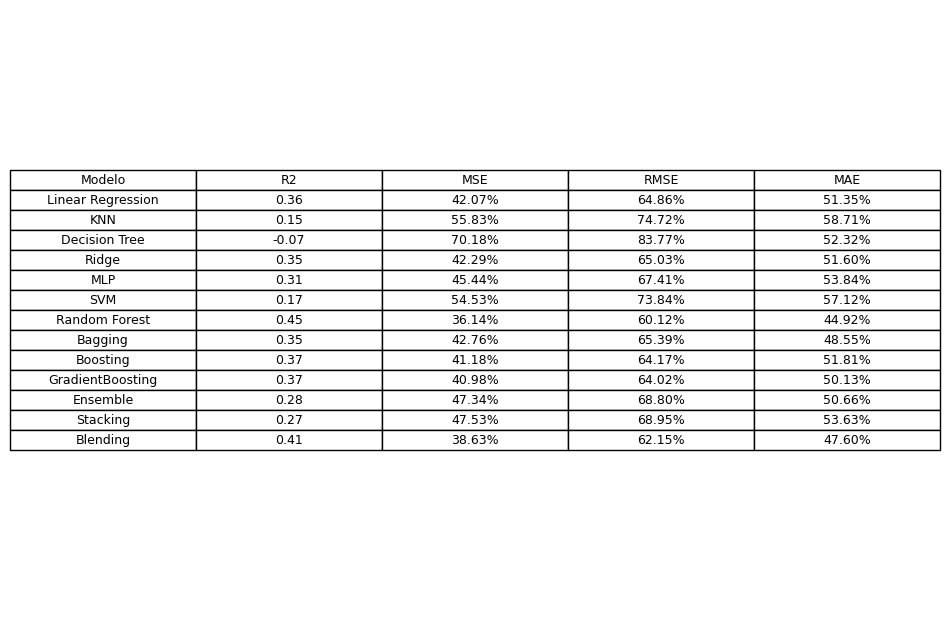
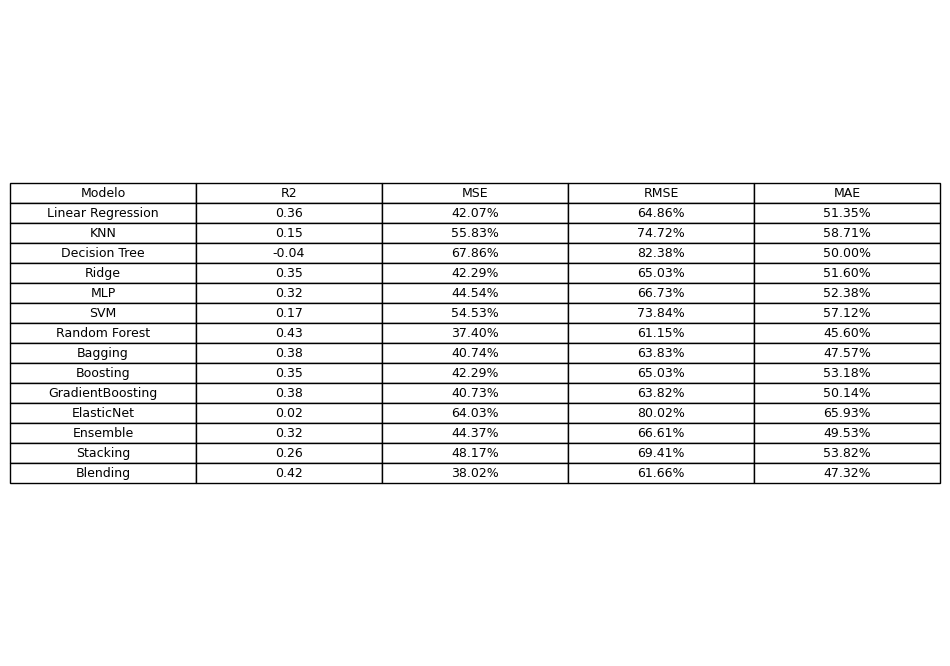
Adicionando mais um modelo de classificação

Changed region(s): [[0.0, 0.2758, 1.0, 0.7355]]

diff --git a/main.py b/main.py
@@ -19,6 +19,10 @@ from sklearn.ensemble import (
     StackingClassifier, StackingRegressor,
     VotingClassifier, VotingRegressor
 )
+from sklearn.discriminant_analysis import QuadraticDiscriminantAnalysis
+from sklearn.linear_model import ElasticNet
+
+
 
 # ============================================================
 # FUNÇÕES AUXILIARES
@@ -80,6 +84,7 @@ def run_classification(X, y, cv=False):
         "Bagging": BaggingClassifier(),
         "Boosting": AdaBoostClassifier(),
         "GradientBoosting": GradientBoostingClassifier(),
+        "QuadraticDiscrimanation": QuadraticDiscriminantAnalysis()
     }
 
     # Ensemble simples (Voting)
@@ -148,6 +153,8 @@ def run_regression(X, y, cv=False):
         "Bagging": BaggingRegressor(),
         "Boosting": AdaBoostRegressor(),
         "GradientBoosting": GradientBoostingRegressor(),
+        "ElasticNet": ElasticNet(),
+
     }
 
     # Ensemble simples (média de regressões)
